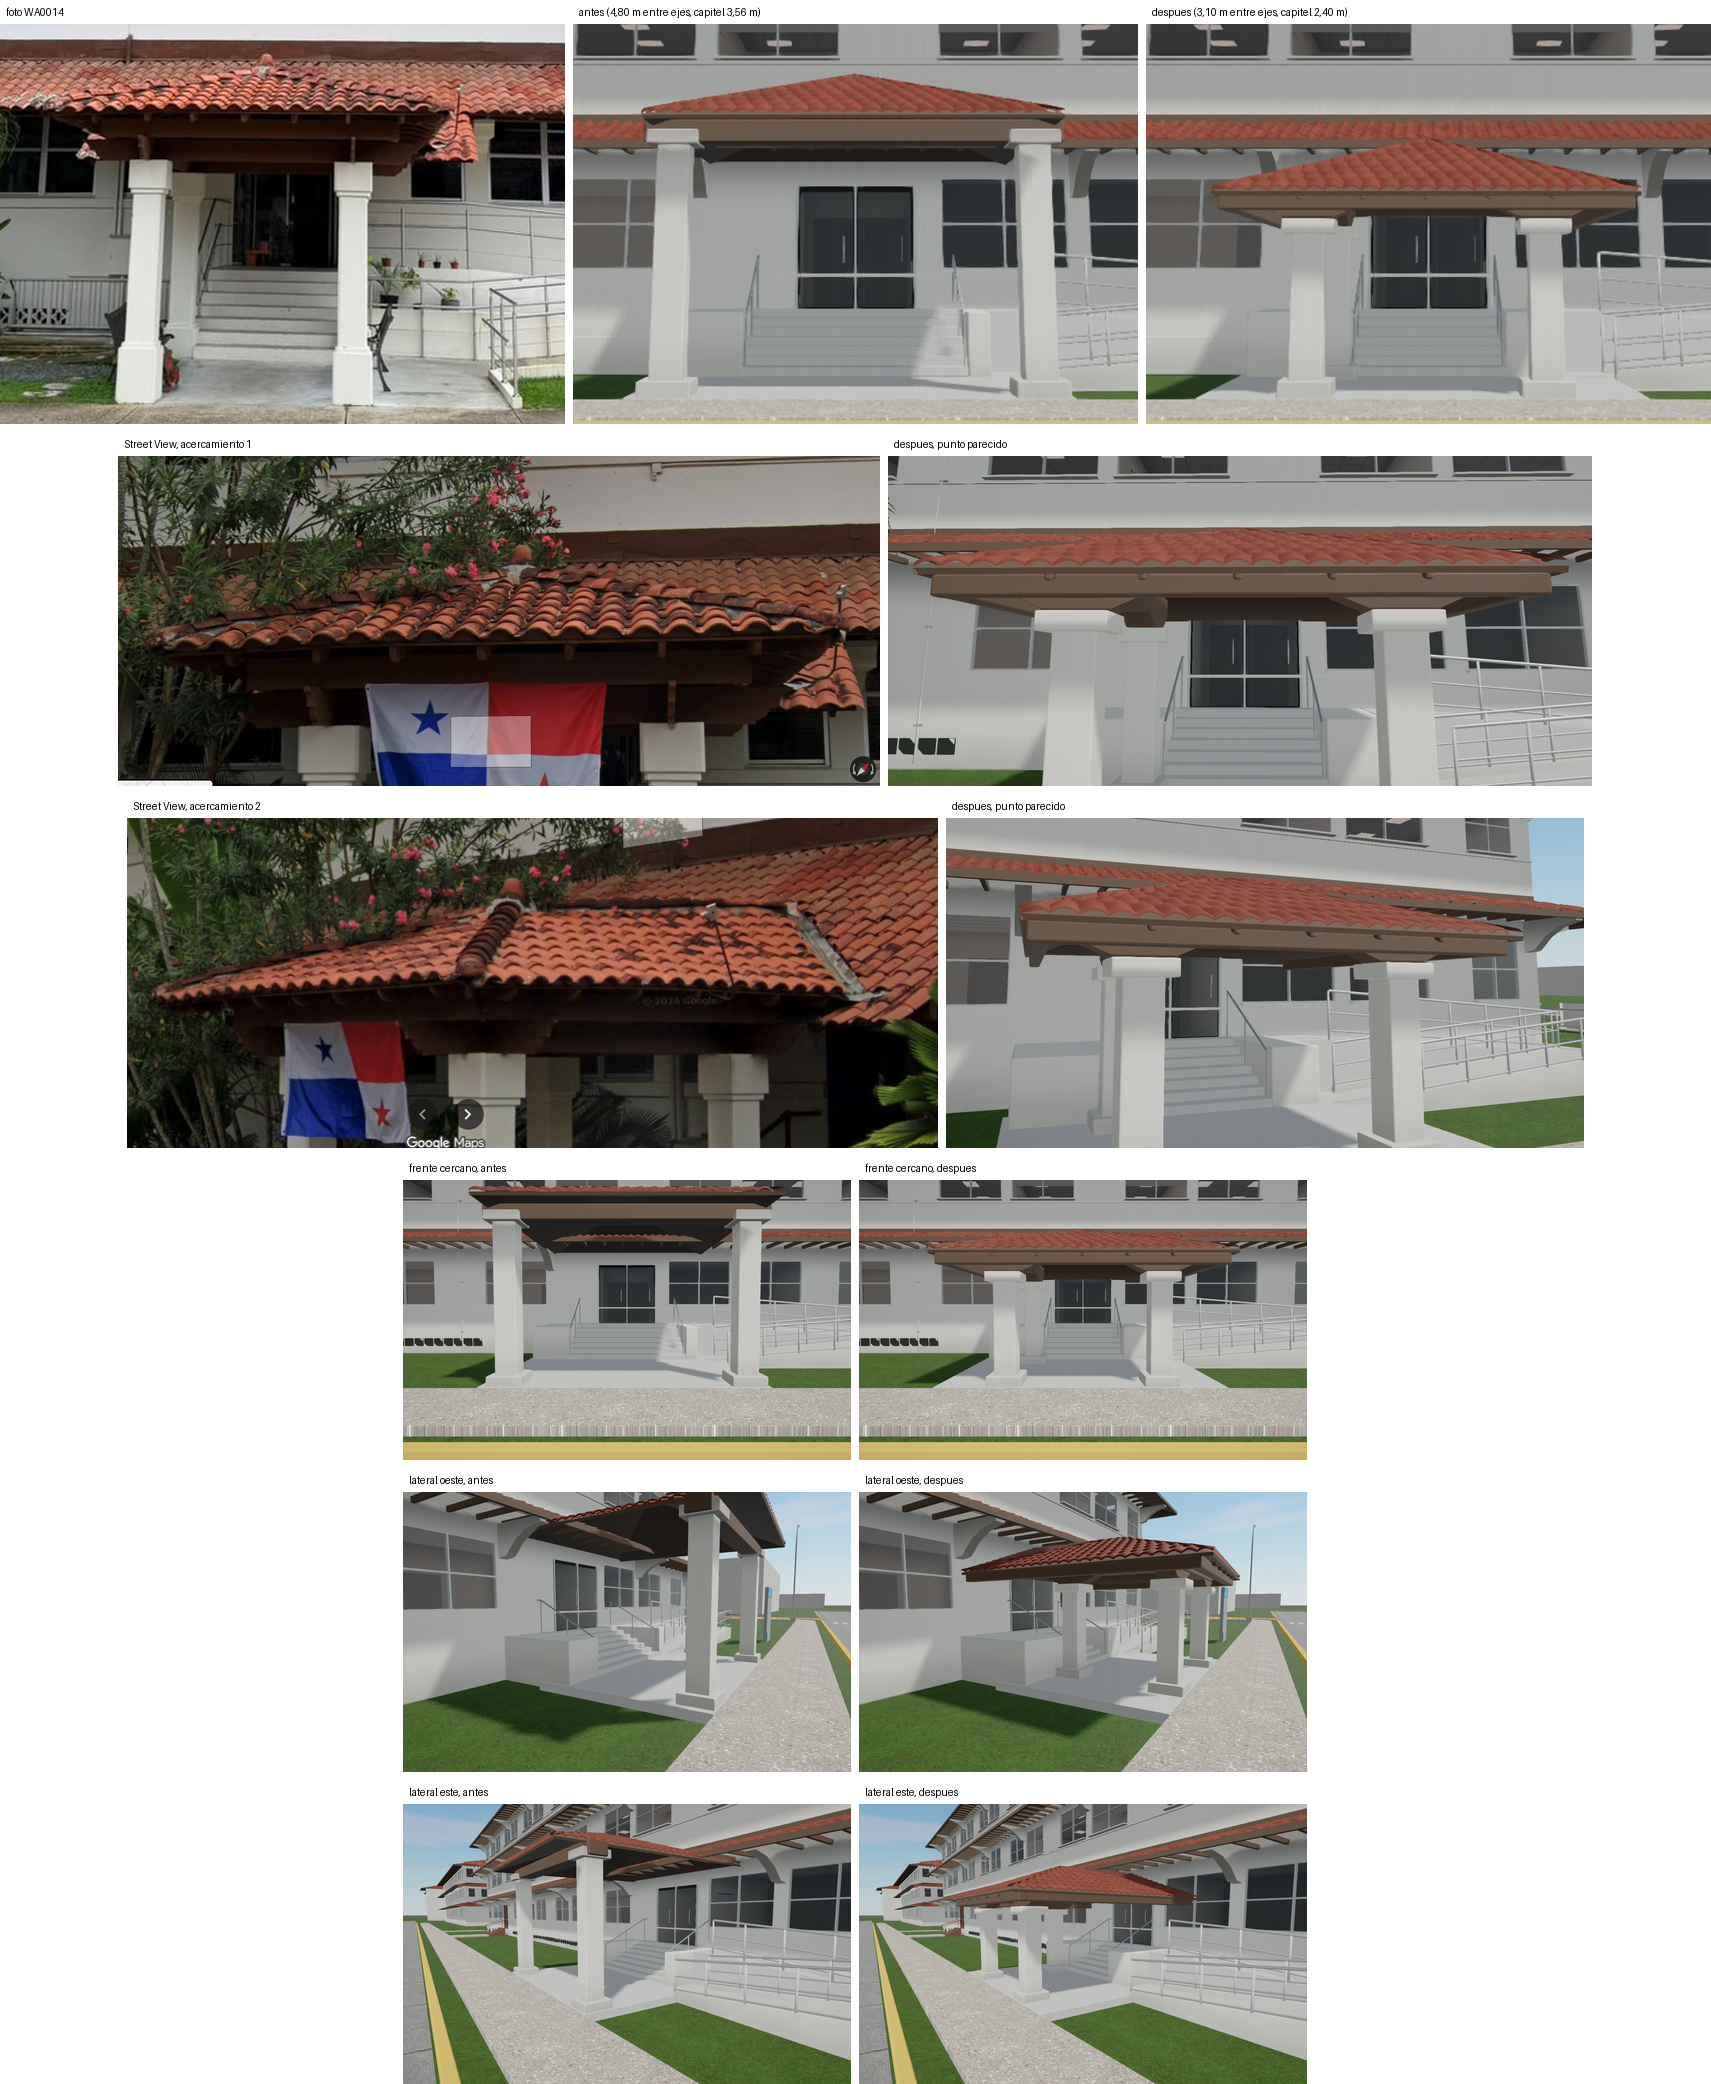
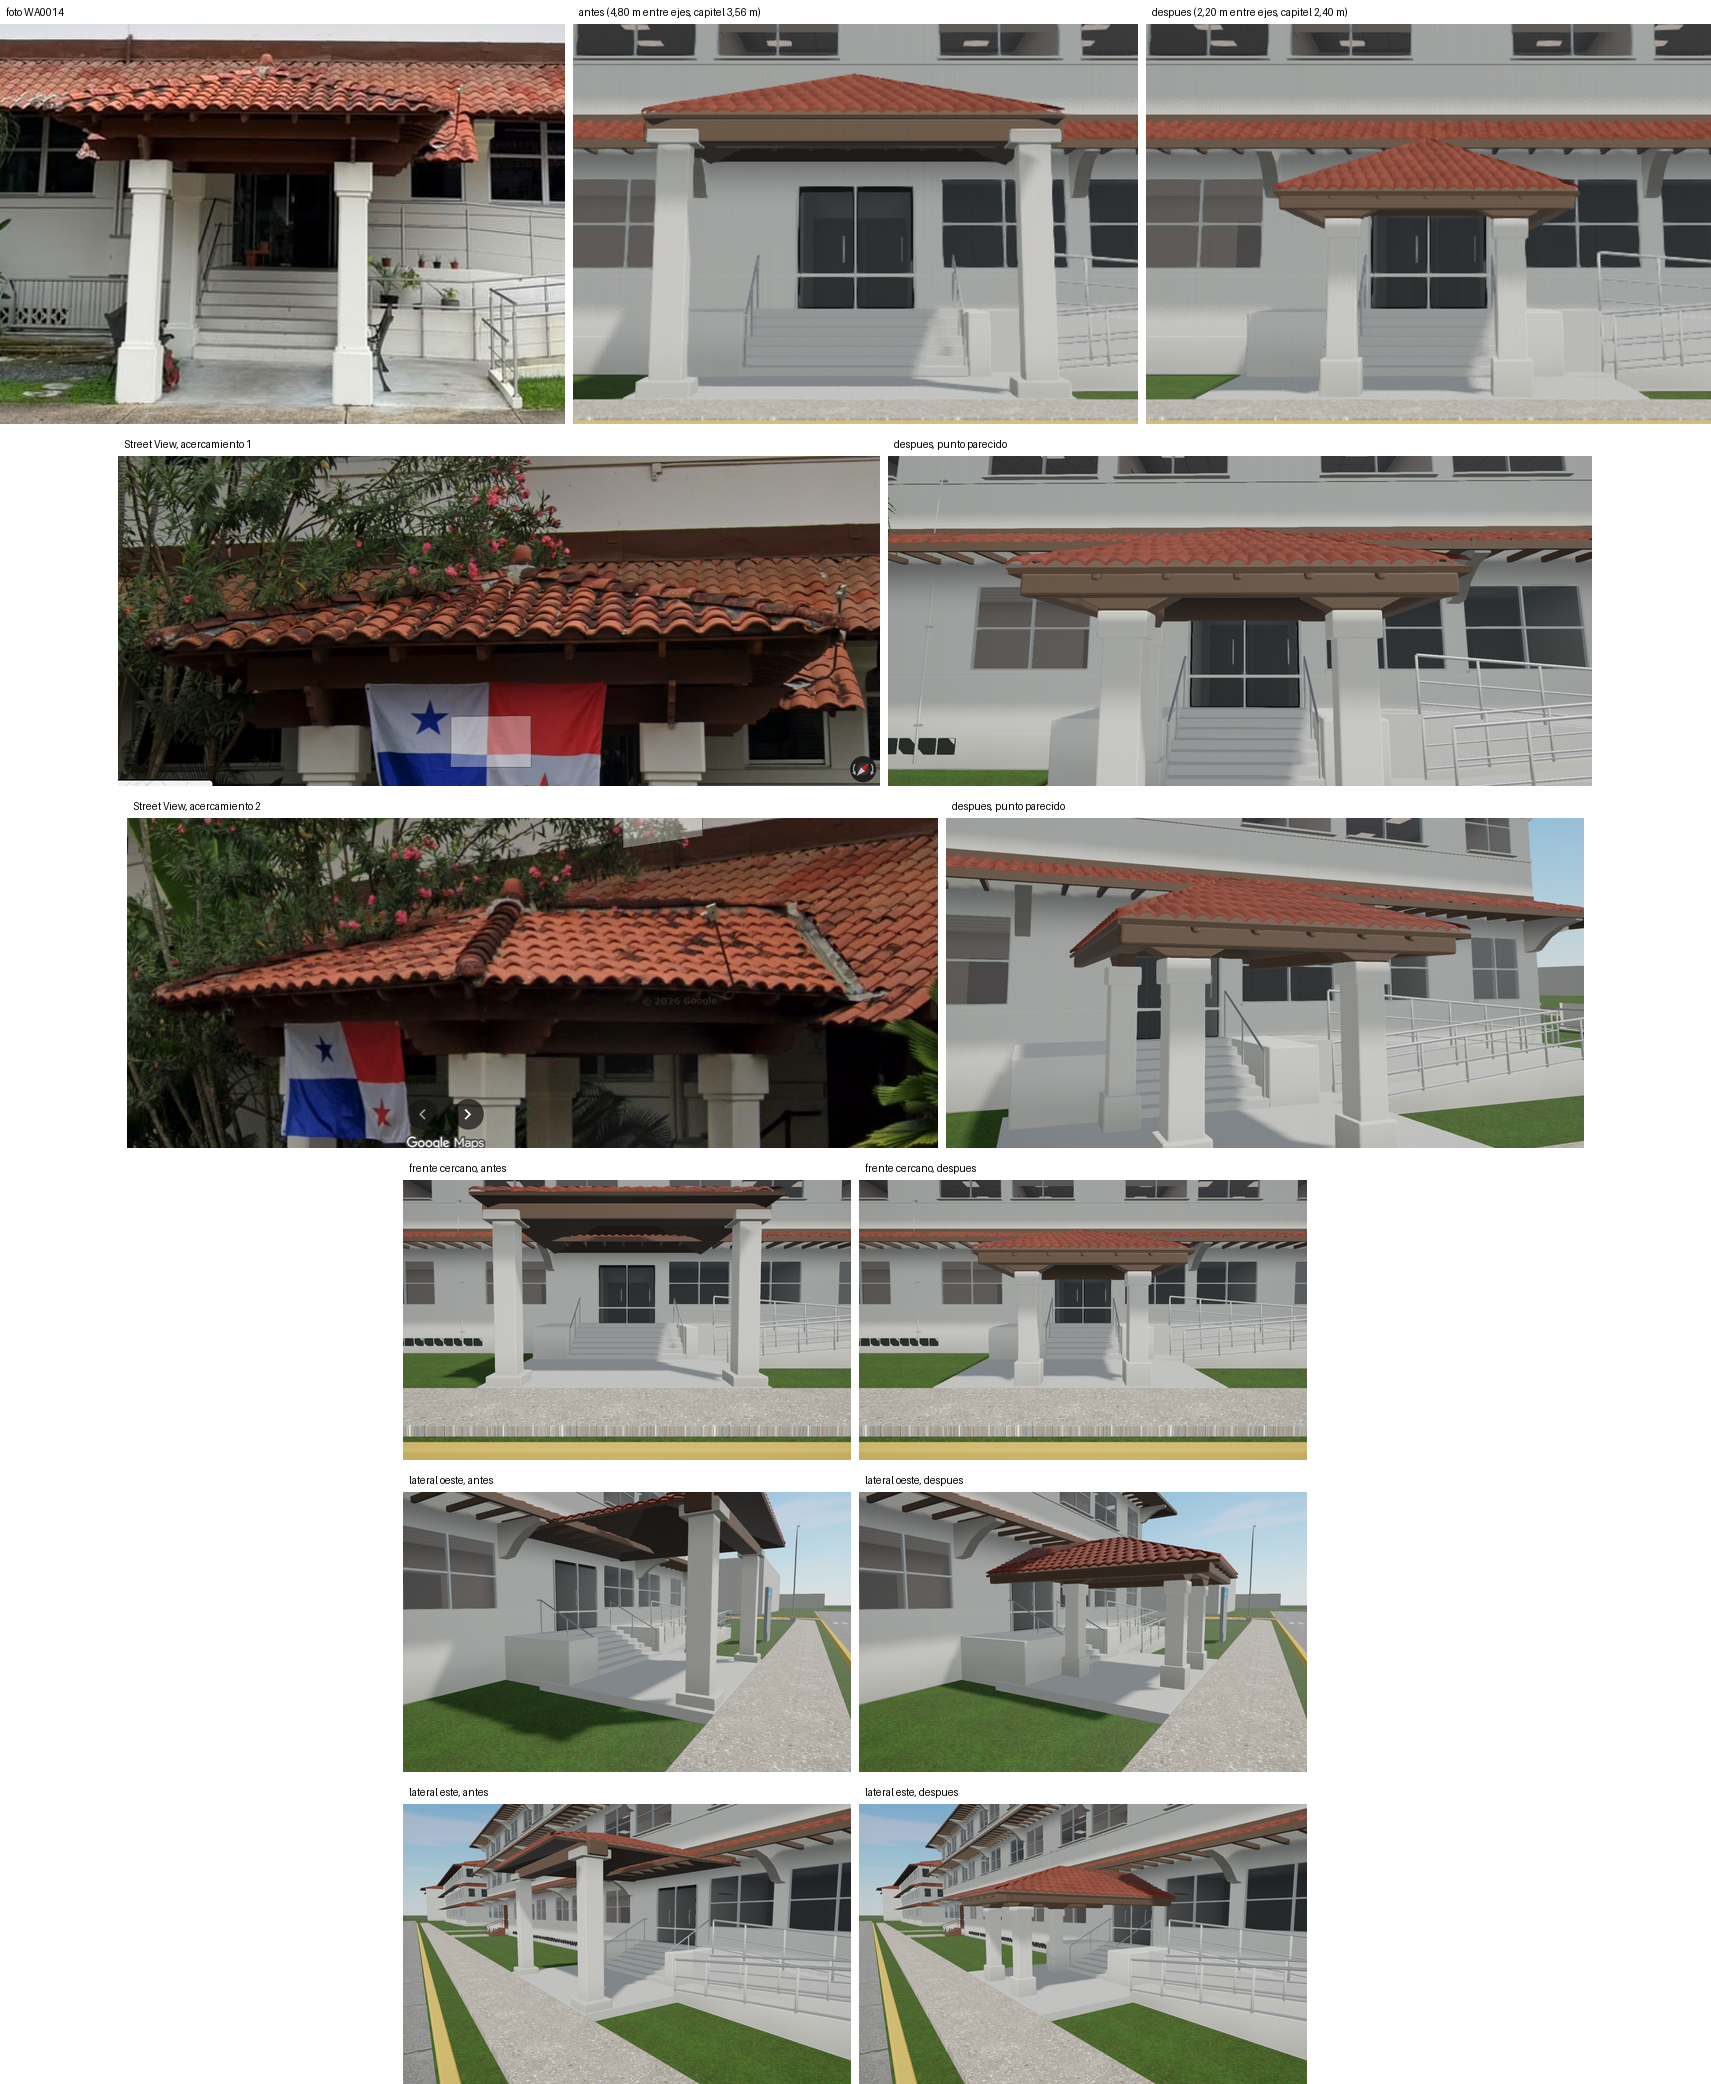
test(portico): hoja comparativa con el pórtico angosto (foto, antes, después y acercamientos)

diff --git a/fuente/verificacion/portico/hoja.py b/fuente/verificacion/portico/hoja.py
@@ -18,7 +18,7 @@ def fila(ps):
 filas = [
   fila([panel(FOTO, (395, 470, 875, 810), 400, 'foto WA0014'),
         panel(A + 'foto.png', (395, 465, 875, 805), 400, 'antes (4,80 m entre ejes, capitel 3,56 m)'),
-        panel(D + 'foto.png', (395, 465, 875, 805), 400, 'despues (3,10 m entre ejes, capitel 2,40 m)')]),
+        panel(D + 'foto.png', (395, 465, 875, 805), 400, 'despues (2,20 m entre ejes, capitel 2,40 m)')]),
   fila([panel(SV % 1, None, 330, 'Street View, acercamiento 1'), panel(D + 'sv1.png', (0, 250, 1600, 1000), 330, 'despues, punto parecido')]),
   fila([panel(SV % 2, None, 330, 'Street View, acercamiento 2'), panel(D + 'sv2.png', (150, 250, 1600, 1000), 330, 'despues, punto parecido')]),
   fila([panel(A + 'frente-cerca.png', None, 280, 'frente cercano, antes'), panel(D + 'frente-cerca.png', None, 280, 'frente cercano, despues')]),
